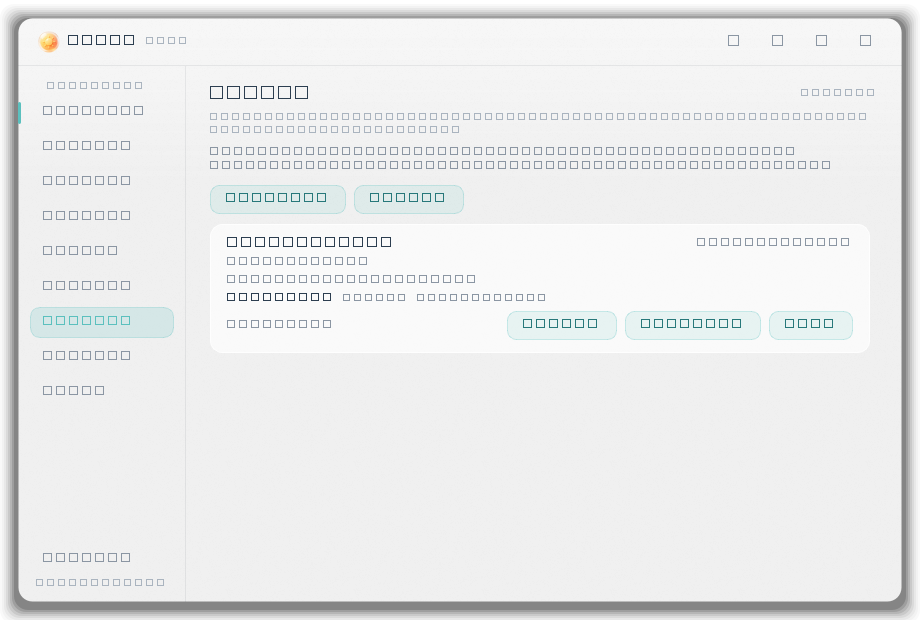
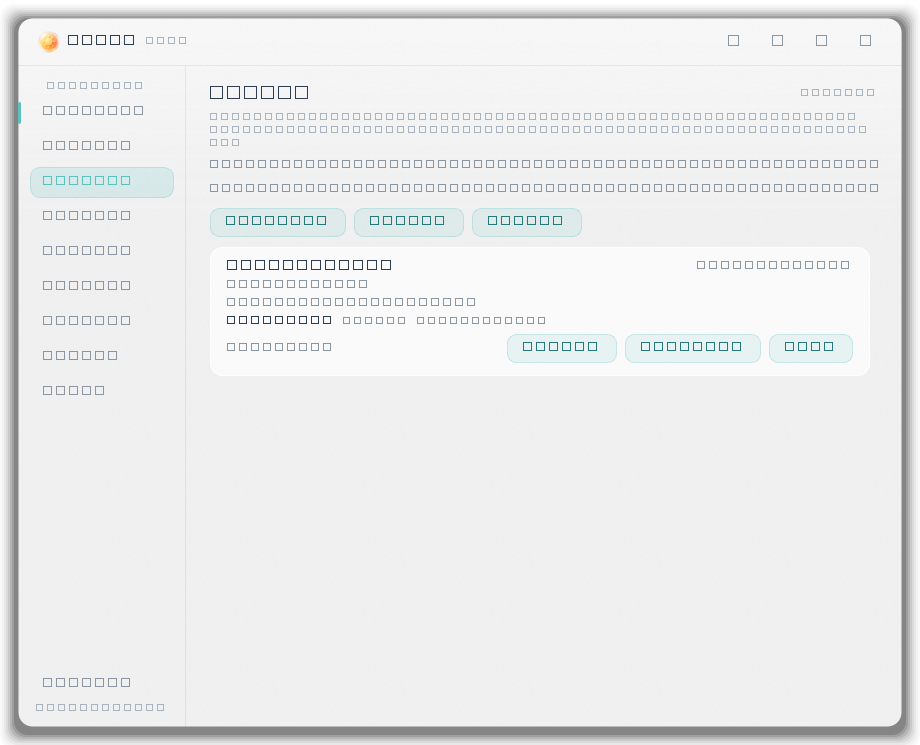
docs: 自动检出 docs 模块改动（3 文件）
由 tools/git_autopilot.py 自动提交。
质量校验：py_compile OK / pytest 890 passed, 3 skipped in 9.47s

变更文件：
  M  CHANGELOG.md
  M  docs/images/验证-插件中心.png
  ??  docs/插件选题推荐-2026-09-28.md

diff --git a/docs/插件选题推荐-2026-09-28.md b/docs/插件选题推荐-2026-09-28.md
@@ -1,0 +1,225 @@
+# 插件选题推荐（2026-09-28）
+
+面向 FloatPulse「办公便捷功能集合体」定位，基于全网同类工具插件生态调研，筛出**值得自己开发**的插件。
+现有插件：`weekly-report`（周报）、`ai-assistant`（AI 助手，含联网/页面/动作协议）。
+
+---
+
+## 一、调研来源与可信度
+
+| 来源 | 关键事实 | 可信度 |
+|---|---|---|
+| Raycast 官方商店 / 2026 评测 | Snippets（常用语）是**内置核心能力**而非商店扩展；Clipboard History 被作者列为"不用就在损失生产力" | 一手 |
+| Raycast 扩展榜（第三方博客） | 高频上榜：GitHub / Linear / Notion / Color Picker / Kill Process / System Monitor / Snippets | 二手，趋势可参考 |
+| uTools 插件专题「必备」「高效办公」 | 必备榜首三位：本地搜索、剪贴板、OCR；紧跟 备忘快贴、聚合翻译、PDF 处理、ToDo 待办 | 一手（官网专题页） |
+| uTools「超级待办」插件描述 | 卖点明确写"AI 帮你写周报、写日报、写总结" | 一手 |
+| Obsidian 插件下载量（obsidianstats.com） | Top10：Excalidraw / Templater / Dataview / Tasks / Advanced Tables / Calendar / Git / Kanban | 一手 |
+| Flow Launcher 插件推荐 | 常装六件：Clipboard+、Window Walker、Steam Search、Colors、Emoji+、Spotify | 二手 |
+| 待办工具横评（多篇自媒体） | "职场人日均 12–25 项碎片任务，68% 因遗漏/混乱降低效率"；重复任务（周会、月报）是刚需 | **【待核实】**——各家都引"2026 行业调研"但无原始出处，只作方向参考 |
+
+**从调研里读出的三条规律：**
+
+1. **高频 ≠ 高价值**：取色、翻译、OCR、emoji、进程管理在各家榜单都很热，但它们是**通用工具**，谁做都行，且与 FloatPulse 主线（记完之后）无关。
+2. **真正稀缺的是「沉淀层」**：Snippets、剪贴板历史、待办/周期任务、日报周报 —— 这些才是"收集完之后怎么用"的位置，正是 FloatPulse 的定位空档。
+3. **重复/周期任务是明确缺口**：多篇待办横评都把"每周例会、每月总结设一次重复规则"当核心卖点，而 FloatPulse 的任务模块目前**没有重复能力**。
+
+---
+
+## 二、选型判据（四条，缺一不推荐）
+
+1. **贴合四大场景**：随手记 / 临时存 / 找东西 / 盯截止日 / 对照参考。
+2. **吃宿主独占数据**：碎片池、双轴分类、任务、笔记、番茄钟快照 —— 外部工具拿不到，才轮到 FloatPulse 做。
+3. **不是别人的优势区**：翻译 / OCR / 取色 / 文件搜索 / 窗口管理 / 进程管理一律排除。
+4. **成本可控**：PyQt6 + stdlib，不引第三方库，单插件 0.5–2 天。
+
+---
+
+## 三、推荐清单
+
+| 优先级 | 插件 id | 名称 | 解决什么 | 用到能力 | 工作量 |
+|---|---|---|---|---|---|
+| **P0** | `snippets` | 常用语速插 | 重复打字（客套话/模板/地址/签名） | 无（可选 write） | ~1 天 |
+| **P0** | `inbox-triage` | 碎片收件箱清理 | 碎片只进不出，越存越不想看 | `manage` + `write` | ~1.5–2 天 |
+| **P1** | `recurring-tasks` | 周期任务 | 周会/月报每周手动重建 | `write` | ~1 天 |
+| **P1** | `deadline-radar` | 截止日盯盘 | 任务沉在列表里，忘了就忘了 | 只读（顺延需 `manage`） | ~1 天 |
+| **P1** | `daily-standup` | 日报/站会生成 | 每天回想"昨天干了啥" | `write` | ~0.5 天（复用周报） |
+| P2 | `focus-review` | 专注复盘 | 番茄钟数据躺着没用 | 只读 + `data_dir` | ~1 天 |
+
+---
+
+## 四、逐个说明
+
+### P0-1 `snippets` 常用语速插
+
+**做什么**：热键（`Ctrl+Alt+;`）唤出搜索框，模糊匹配片段名 → 回车 → 内容写进剪贴板并**自动粘贴到当前光标位置**。附带"把当前选中文本存为新片段"。
+
+**为什么是它**：Raycast 把 Snippets 做成内置核心功能、uTools 有「备忘快贴」「超级文本片段」两个同类插件且都进必备榜 —— 这是被三个生态同时验证过的最高频需求。FloatPulse 的优势是球常驻桌面，唤起路径比开 uTools 更短。
+
+**实现要点**：
+- 片段库存 `ctx.data_dir/snippets.json`，写文件走**临时文件 + `os.replace`** 原子落盘（与宿主数据层同风格）。
+- 热键路径 `run()` 跑在**原生事件过滤器**里 → 开对话框必须 `QTimer.singleShot(0, ...)`，否则重入崩。
+- 弹窗继承 `src/plugin_ui.PluginDialog`（裸 QDialog 会退化成系统外观）。
+- 粘贴：`ctypes`（stdlib，白名单内）调 `user32` 发 `Ctrl+V`。**坑**：Qt 窗口弹出会抢焦点 → 先在 `run()` 里 `GetForegroundWindow()` 记下原窗口句柄，写剪贴板后 `SetForegroundWindow` 回来再发按键。
+- 可选声明 `write`：让用户把碎片池里的常用内容一键"升级"成片段，形成 碎片→片段 的反向闭环。
+
+**验收**：在记事本/浏览器输入框分别测试，粘贴成功且不丢焦点；片段库损坏时降级为空列表不崩。
+
+---
+
+### P0-2 `inbox-triage` 碎片收件箱清理
+
+**做什么**：定时扫描碎片池，把**超过 N 天未处理**的碎片挑出来，悬浮球角标提示；点开是页面插件，逐条给三个按钮：转任务 / 转笔记 / 删除，支持批量"全部忽略"。
+
+**为什么是它**：碎片池是 FloatPulse 自己造出来的数据结构，**堆积问题只能自己解** —— 外部工具碰不到这些数据。这是最"独占"的一个插件，也是唯一能把闭环从"收集"补到"消化"的那一环。
+
+**实现要点**：
+- 需要 `capabilities: ["write", "manage"]`（转任务/笔记用 `add_*`，删除与标记用 `delete_*` / `update_fragment`）。
+- `delete_*` 返回**撤销令牌** → 面板上必须给「↩ 撤销」按钮，调 `undo_delete(token)`（一令牌一用，编号可能变新，是预期行为）。
+- 页面插件：`manifest "page"` + `create_page(ctx)` → `register_plugin_page()`（索引 10+，不占 `last_page_index`）。
+- 老化判定只看碎片 `created_at` + 本地"已处理"标记（`data_dir/handled.json`），**不改动宿主碎片结构**。
+- 定时器在 `on_disable` 里停掉（钩子异常由 loader 隔离，但仍要自己收尾）。
+
+**验收**：碎片为空不报错；删后撤销能回来；禁用插件后定时器不再触发。
+
+---
+
+### P1-1 `recurring-tasks` 周期任务
+
+**做什么**：管理重复规则（每天 / 每 N 天 / 每周几 / 每月几号），程序启动与每日跨零点时检查，自动 `add_task` 生成到期实例。
+
+**为什么是它**：多篇待办横评把"每周例会、每月总结设一次重复规则"列为核心卖点，FloatPulse 任务模块**没有**这个能力 —— 是明确的功能缺口，不是锦上添花。
+
+**实现要点**：
+- 只需 `write`（`ctx.write.add_task(title, note, deadline)`）。
+- 规则存 `data_dir/rules.json`；**幂等必须做**：记录"上次生成日期"，避免重复启动生成一堆重复任务。
+- 页面插件管规则（增删改），不要用弹窗硬塞。
+- 与 `deadline-radar` 天然互补，可共用一套日期工具。
+
+---
+
+### P1-2 `deadline-radar` 截止日盯盘
+
+**做什么**：把"逾期 / 今天 / 本周"的任务浓缩成一张常驻小卡（页面插件 + 悬浮球角标），只显示最近 3 条；提供「顺延一天」按钮。
+
+**为什么是它**：直接对应定位里的「盯截止日」。敬业签/滴答清单的价值核心就是"可见即可管" —— FloatPulse 已有任务分组，缺的是**主动冒出来提醒**这一步。
+
+**实现要点**：
+- 只读为主；"顺延一天"需 `manage` 的 `update_task(task_id, deadline=...)`（**其他字段传 `None` = 不动**）。
+- 角标数量用宿主 `refresh_badge` 通道，别自己画悬浮控件。
+- 分组口径复用 `overdue→today→week→later→none→done`，**不要另写一套**。
+
+---
+
+### P1-3 `daily-standup` 日报/站会生成
+
+**做什么**：按"今天"范围汇总 —— 昨日完成 / 今日计划 / 阻塞项，一键存为笔记。
+
+**为什么是它**：uTools「超级待办」明写"AI 帮你写周报、写日报"；而 FloatPulse 已有 `weekly-report`，**改个时间窗口就能复用九成代码**，性价比最高。
+
+**实现要点**：复制 `plugins/weekly-report/` 骨架 → 时间范围改今日 → 输出模板换三段式 → `ctx.write.add_note()`。约半天。
+
+---
+
+### P2 `focus-review` 专注复盘
+
+读 `ctx.data.pomodoro()` 与任务 `focus_sessions`，按天累计进 `data_dir`，出周/月专注时长与小热力图。价值依赖用户是否真在用番茄钟，故排 P2。
+
+---
+
+## 五、明确不做（附理由）
+
+| 不做什么 | 理由 |
+|---|---|
+| 翻译 / OCR / 取色 / 计算 / 单位换算 | uTools、Raycast、Flow Launcher 都有成熟件且更好；FloatPulse 无浏览器内核与 OCR 引擎，硬做是劣势区 |
+| 全局文件搜索、窗口切换、进程管理 | 已定调交给 Everything / Flow Launcher；与"记完之后"无关 |
+| 完整剪贴板历史 | 宿主已有剪贴板收集，插件再做是重复建设（片段库是它的上层，已在推荐里） |
+| 云同步 / 多端 | 定位是本机单用户，无服务端 |
+| 浏览器书签导入 | 已有「网址导航」面板覆盖 |
+
+## 六、两个前置决策（需要拍板）
+
+1. **网络桥目前只有 POST**（`ctx.http_post_json_async`）。若将来要做"稍后读 / 链接暂存箱"这类需要 **GET 抓网页标题**的插件，必须先给 `src/plugin_net.py` 加 GET 通道 —— 这是宿主改动，不是插件能绕过的。
+2. **模拟粘贴要用 `ctypes` 发按键**。依赖白名单允许 `ctypes`（stdlib），但属于"操作其他窗口"的越界行为，需要在插件说明里写清楚，并在 manifest 里声明用途。
+
+---
+
+## 七、建议推进顺序
+
+`daily-standup`（半天，验证页面+write 链路）→ `snippets`（一天，最高频）→ `recurring-tasks`（一天，补缺口）→ `inbox-triage`（两天，独占价值最大但最重）。
+
+---
+
+# v2 修订（2026-09-28 晚）：三个候选选题的评估
+
+> 用户反馈第一版"没技术含量 / 和宿主重复 / 场景错配"三条成立，并自拟三个选题。以下是对这三个选题的评估与增强建议。第一版的「调研来源」「明确不做」仍然有效。
+
+## 判据修订（在原四条基础上加两条）
+
+5. **交互范式要新**：宿主已有的是「打开页面 → 操作 → 保存」；插件应提供宿主没有的范式（选中即转换、到点主动触发、热键直达）。
+6. **有工程深度**：不能是纯 CRUD + 剪贴板，至少要占一样——异步编排 / 解析算法 / 状态机 / 索引 / 冲突处理。
+
+## 候选 1：`ai-text-workshop` AI 文本工坊 —— 值得做，但有两个前置
+
+**形态**：热键呼出对话框，自动带剪贴板文本，一键执行润色/翻译/总结/改语气/提取待办；结果可复制、或 `write` 回写碎片/笔记。
+
+**需求侧**：Raycast AI Commands 确实存在（Pro 的自定义 AI 命令）；PowerToys Advanced Paste 也确实是 PowerToys 的热门功能且已加 AI 增强。但"2025 年公认最热门功能"这个说法**未找到权威出处，标【待核实】**，对外别这么写。
+
+**与 AI 助手是否重复**：**不重复，是范式互补** —— AI 助手是"对话页"（长流程、有上下文、能操控数据），这个是"选中即转换"（单次、无状态、结果即走）。两者可以共存。
+
+**必须解决的两个前置**：
+
+| 问题 | 说明 | 建议解法 |
+|---|---|---|
+| **后端配置双份** | 后端（云端 base_url/key/model、本地 llama-server 路径/端口/gguf）目前是 `ai-assistant` 私有的。新插件再搞一套 → 用户配两遍、两份 key 不同步 | **不动设置页**（改设置页=用户可见变更+要同步 `verify_settings_groups.py`+进 CHANGELOG）。改为约定共享文件 `float_data/ai_backend.json`，`ai-assistant` 写、其他插件只读并做降级（文件不存在 = 未配置） |
+| **本地冷启动延迟** | 本地模式要 QProcess 拉 llama-server，模型加载数秒~十几秒。而"剪贴板一键动作"的价值就是秒级响应，冷启动会毁掉体验 | 分两类动作：①**确定性转换**（JSON 格式化、Markdown↔纯文本、去空行、全半角、大小写）——纯 stdlib、零延迟、不依赖模型；②**AI 转换**——走模型，首次调用给"模型加载中"提示，并记住"本地服务已就绪"状态 |
+
+**增强建议**：把 PowerToys Advanced Paste 里最好用的那一半抄过来 —— **确定性格式转换不依赖模型**，即时响应。这样插件在没配 key、没开本地服务时**仍然有用**（否则它就和 AI 助手一样"不配置就废"）。
+
+## 候选 2：`recurring-tasks` 周期任务 —— 同意，成本最低收益最高，但实现姿势要改
+
+QTimer + `write.add_task` 成本确实极低。但**不能靠"设一个 24 小时定时器"**，有三个坑：
+
+1. **休眠不补偿**：Qt 定时器在系统睡眠/休眠期间不累加，睡一晚回来定时器不会补触发。
+2. **程序没启动就漏**：宿主没运行时定时器根本不存在（依赖开机自启）。
+3. **重复生成**：宿主重复启动、或规则跨天边界，容易一天生成两条。
+
+**正确姿势 = 轮询 + 补跑 + 幂等**：
+- `QTimer` 每 5 分钟 tick 一次 → 比对「当前日期时间」与规则（每天 / 每周几 HH:MM / 每月几号），而不是设一次性定时。
+- 每条规则记 `last_fired`（日期），启动时**补跑**错过的（补跑只补最近一次，不无限回溯）。
+- 定时器必须在 `on_disable` 里停掉（钩子异常 loader 会隔离，但自己要收尾）。
+
+**"每周五 15:00 自动生成周报草稿并弹 toast"** 这条最有粘性，但要拆清楚：
+- 若周报草稿 = **纯模板汇总**（本周新增碎片数 / 完成任务数 / 待办），纯本地可做，零依赖，稳定。
+- 若 = **AI 润色后的叙述**，就依赖后端，且本地冷启动同样有延迟。
+- 建议：**先做纯模板版**（主动弹 toast + 一键存笔记），AI 润色作为可选增强放在后面。
+
+## 候选 3：`snippets` 快捷短语库 —— 实用，但要加一层才撑得住
+
+这条我第一版推过、后来自己砍了，理由是"技术含量最低、和宿主'临时存'重复"。你的版本有个我没考虑到的点：**只复制到剪贴板，不模拟粘贴** —— 那就不需要 `ctypes` 操作其他窗口，越界风险归零，我上一版在这一条上说重了，纠正。
+
+但要撑得住，建议加 **动态变量**，让它从"静态片段"变成"微型模板引擎"：
+
+| 变量 | 行为 | 技术含量 |
+|---|---|---|
+| `{{date}}` `{{time}}` `{{weekday}}` | 插入当前日期时间 | 低 |
+| `{{clipboard}}` | 插入剪贴板当前内容 | 低 |
+| `{{sel}}` | 插入唤出前选中的文本 | 中（要在唤起时抓取） |
+| `{{ask:提示}}` | 弹出输入框让用户填 | 中（动态构造表单） |
+| `{{py:表达式}}` | 简单表达式求值 | 高（**必须白名单求值，禁 eval 裸跑**） |
+
+再加一条差异化：**从碎片池"升级"成短语**（碎片面板选中 → 存为片段）。这是 Raycast / Espanso / uTools 都没有的，因为只有 FloatPulse 有碎片池。
+
+`{{py:}}` 要慎重：安全上做成"仅允许一组内置函数 + 字面量"的最小求值器，或直接砍掉。
+
+## 修订后的推进顺序
+
+| 序 | 插件 | 工作量 | 理由 |
+|---|---|---|---|
+| 1 | `recurring-tasks` + 周报主动提醒 | ~1 天 | 成本最低、粘性最高、补"主动性"缺口 |
+| 2 | `ai-text-workshop` | ~2 天 | 最值钱（AI 编排 + 双后端 + 回写数据链路），但需先定 `ai_backend.json` 共享方案 |
+| 3 | `snippets` + 动态变量 | ~1 天 | 高频但含量最低，放最后；靠动态变量和"碎片升级"拉出差异 |
+
+## 待拍板
+
+1. **后端配置要不要提到宿主层？** 方案 A：`float_data/ai_backend.json` 约定共享（不动设置页，成本低，推荐）；方案 B：进设置页正式配置（要动三件套 + `verify_settings_groups.py` + CHANGELOG，成本高但正规）。
+2. **`{{py:}}` 动态求值做不做？** 做就有安全风险需白名单，不做就砍掉。

diff --git a/CHANGELOG.md b/CHANGELOG.md
@@ -8,6 +8,7 @@
 - **示例插件「周期任务」（`recurring-tasks`，页面插件 + 定时规则引擎）**：补上宿主缺的那一件事——**只给规则，到点自动生成任务**。与既有的 `task_reminder_enabled` 划清界限：那个是「**已知具体日期**的任务 → 启动时 + 每日 9:00 托盘气泡提醒」，本插件是「**只给规则**（每天 / 每周几 / 每月几号 / 每 N 天）→ 自动把任务实例生出来落进任务页」，生成的实例照旧享受宿主的到期提醒，两者互补。四种规则类型：每天 HH:MM、每周（可多选星期几）、每月（可多选号数，`>当月天数` 的号数**自动顺延到月末**——否则「31 号」规则在 2 月永远不触发）、每 N 天（自锚点日起算）。**调度正确性四条都是踩过的坑而不是设想**：①**轮询而非一次性定时器**——Qt 定时器在系统休眠期间不累加，睡一晚回来不会补触发，跨天还会算错，故用 60s tick 反复比对「当前时间 vs 规则」；②**错过的只补最近一次**——程序没开（或休眠）期间错过的触发点，启动后只补**最近**那一次（连关三天不该冒出三条任务）；③**同一天不重复生成**——每条规则的 `last_fired`（触发日，落盘）是幂等锚点，重复启动、一天内多次 tick、「立即检查」按多次都只产生一条；④**不为「创建之前」的日子补跑**——`created_at` 是补跑的水位：否则上午 10:00 新建一条「每天 08:00」的规则会立刻冒出一条**昨天**的任务（那条规则当时还不存在，谈不上「错过」），现在它从保存那一刻起算、第一次生成落在次日 08:00，而 08:00 建的「每天 09:00」今天 09:00 照常触发。**失败不假装成功**：未授权 / 写失败时 `last_fired` 不推进，但当天也不再重试（失败日记进内存标记），原因写进日志并 toast 说清，不静默吞掉也不刷屏。生成任务的截止日可选（不设 / 当天 / 次日 / 3 天后 / 7 天后），只影响生成的实例、不影响触发时刻。规则落在 `float_data/plugins/recurring-tasks/rules.json`（临时文件 + `os.replace` 原子写，坏文件只降级不删档，一条坏规则拖不垮其余）。入口：主窗口导航页「🔁 周期任务」（`Ctrl+Alt+R` 或悬浮球右键菜单），页面是规则卡片列表（规则摘要 / 下次触发 / 截止日 / 上次生成 / 备注）+ 启停 / 编辑 / 删除 / ➕ 新建 / ✅ 立即检查；编辑对话框继承 `PluginDialog`，只声明 `write` 能力（只增不改删，不要 `manage`）；随包附带 `使用说明.md`（插件中心卡片可点开）。两处工程细节值得记：**插件级单例调度器**——插件中心「重新扫描」会重复触发 `on_enable`，若每次新建 `QTimer` 就会在一台机器上并存多个调度器；**数据目录不可用时 `load()` 保留内存规则**——否则每次切入页面（`showEvent` 会重读）都会把用户刚建的规则清空。页面上如实写明「下次触发是推算值，程序没运行时不会自动生成，重启后补跑最近一次」，不误导用户以为关着程序也会长任务。回归钉子 `tests/test_recurring_tasks.py`（**125** 项：规则命中 / 月末顺延 / 幂等 / 补跑 / 创建水位 / 失败隔离 / 存储降级 / manifest 契约 / 单例幂等）；离屏端到端 `tools/verify_recurring_tasks.py`（**46/46**：真加载器 + 真 `TaskManager`——启动即补跑 0→2 条且各补一次、月度只补 9/15 不补 9/1、已生成过的不提前触发、新建当天不补跑、停用规则零生成、只声明 write 时 `manage` 被门禁拒绝、页面注入与热键、对话框四类参数区切换与校验，附 light/dark 双主题真截图）。已打包 `plugin_store/recurring-tasks.fpplug`（18.5KB）
 - **插件打包器 `tools/pack_plugin.py`**：插件分发的最后一环——此前把插件打成 `.fpplug` 靠手工压缩，格式靠人记（要套一层 `<插件id>/`、不能带 `__pycache__`），而依赖写错、热键写坏、entry 指向不存在的文件这类问题要等用户装进程序看到「加载失败」才发现。现在一条命令搞定：`python tools/pack_plugin.py plugins/<插件> [--force] [--check-only] [-o 目录]`，默认输出到 `plugin_store/`。**打包期就挡住装载期的问题**：manifest 可读/UTF-8/合法（中文存成 GBK 会直接提示）、结构校验（复用 `validate_manifest`，规则不重写）、`requires` 白名单（列出违规项并给替代路径）、action id 包内唯一、热键格式、entry 文件真实存在；打包内容自动排除 `__pycache__` / `*.pyc` / `*.log` / 隐藏文件 / 旧包；**打完立刻自校验**（重开 zip 确认 manifest 可解析 + entry 在包内，不过就删包报错，不留坏包）；同名包默认拒绝覆盖（需 `--force`，拒绝时原包字节不变）；退出码 0/1/2 可进 CI。纯标准库 + 契约层，**无 GUI 环境可跑**。回归钉子 `tests/test_pack_plugin.py`（20 项，含端到端：真 `PluginLoader` 扫包 → 安装 → 加载出插件 → 商店状态翻「已安装」）。实测打出的包与 `plugin_store/ai-assistant.fpplug` 结构一致、大小完全相同（35533 字节）
 - **AI 助手操作知识库（v1.6.0，读写全套 + 位置型数据护栏）**：AI 助手的操作范围从「任务 / 碎片 / 笔记」扩展到**知识库**（`float_data/知识库.docx`）——「往知识库里追加一条：客户投诉处理流程见附件 A」「把知识库第 4 段改写得更简短」「讲报价的那段过时了，删掉」都能直接说；并新增「查知识库」快捷指令（读全部段落带编号，先概括整体，再指出最值得展开或最可能过期的编号）。**知识库与其它三类数据的本质差别是「用编号（位置）寻址」而不是自增 id**，所以这套能力多做了四道针对性护栏：①**改删必须带内容指纹 `expect_hash`**——编号是位置不是身份（删掉第 3 段，原第 5 段就变成第 4 段），且 `.docx` 允许用户随时用 Word/WPS 外部编辑，故 `update_knowledge(num, content, expect_hash)` / `delete_knowledge(num, expect_hash)` 的指纹由解析器从快照**原样透传**（模型既不需要也没法自己编，快照里那段没 `hash` 就整条丢弃），宿主执行前重新比对当前内容、**对不上直接拒绝**——宁可失败也不改错段落；传空 / `None` / 非字符串一律拒（`_check_hash` 比文本参数严：**没有「不校验」这个选项**）；②**外部改动安全闸**——`DocxManager.save()` 是**整篇回写**，用户在 Word 里改过而内存模型未重载时落盘会覆盖用户的手改内容，故所有知识库写入前先过 `check_external_modification()`，命中即拒绝并记 warning，引导用户到知识库页点「🔄 重新加载」；③**同批删除必须按编号降序执行**——位置型数据独有的坑（先删 4 号再删 6 号，删完 4 号后原 6 号已经是 5 号），由纯函数 `_order_actions()` 负责重排，只动执行顺序、不改动作内容，新增/修改类的相对顺序保持；④**撤销放回原位置**——任务 / 碎片 / 笔记撤销走「重新插入」（编号会变新），知识库段落用 `insert_paragraph_before` **回到原编号**（对位置型数据，位置本身就是信息），越界才退回追加。同时**顺手修正一处既有隐患**：`DocxManager.load()` 此前把**原始 docx 下标**写进 `ParagraphInfo.index`，而 delete/insert 与面板所有寻址 API 用的都是**过滤后位置**（空行与短于 4 字的段落会被跳过）——文档一旦含空行 / 短段，「编号 N」就会改错段落；现统一为过滤后口径并加回归钉子（现有 `知识库.docx` 344 段、无跳过，故此前未爆发）。契约侧新增 `PluginData.SOURCE_KNOWLEDGE` + `ctx.data.knowledge()`（返回 `num` / `text` / `preview` / `hash`——**不走 `to_dict()`**，那里面没有文本，故宿主显式构造）、`ctx.write.add_knowledge()`（返回编号，从 1 起）、`ctx.manage.update_knowledge / delete_knowledge`。插件使用说明新增「让 AI 操作知识库」章节。回归钉子：`tests/test_plugin_knowledge.py`（新增 **42** 项：权限门禁 / 指纹契约 / 索引口径 / 原位插入 / 异常隔离）+ `tests/test_ai_assistant_actions.py` 扩至 **60** 项（动作分级、`hash` 绑定、`_order_actions` 降序）+ 离屏端到端 `tools/verify_ai_assistant.py` **133/133**（C46–C52 为知识库全链路，含 light/dark 双主题真截图人工核对）
+- **插件商店独立弹窗**：「🏪 插件商店」从插件中心页里的常驻区块拆为**独立窗口**（GlassDialog，与主窗口同主题，light/dark 自动跟随）——此前商店卡片与已安装卡片同页渲染，页面被拉得过长、同一插件在「商店区·已安装」与「已装列表」各出现一次，视觉拥挤且重复。现在页面本体只看「已装了什么」，商店窗口只看「还能装什么」：**已安装的包不再重复列出**（压缩成一行「✓ 另有 N 个插件包已安装——卸载后可回到此处重装」），列表只留未安装包与坏包（坏包给出出错原因）；安装成功后弹窗卡片即时刷新、右键菜单同步重建；底部保留「打开商店目录 / 刷新」。空态两档文案：目录里没包引导放入后刷新，全部装过则提示「卸载后可重装」。回归钉子：页面不再有内嵌商店区（`pluginStoreBox`）、弹窗三态卡片、安装后即时刷新（`TestStoreDialog`，5 项）
 - **插件改删能力 `capabilities: ["manage"]` + `ctx.manage`（撤销令牌 + 审计）**：`write` 只能新增，插件想「把这条任务标记完成」「删掉那条重复碎片」此前完全无路可走。现新增高一一档的 `manage` 能力（**蕴含 `write`**，改删必然要先能读能写）：`ctx.manage` 提供 `update_task / set_task_done / update_fragment / update_note` 四个改方法（返回 `bool`）与 `delete_task / delete_fragment / delete_note` 三个删方法，以及 `undo_delete(token)`。关键设计：①**删除可撤销**——`delete_*` 不返回 bool 而返回**撤销令牌**（正整数，`>0` 成功），宿主在删之前抓整条快照进撤销栈（只保留最近 50 次），用户后悔时凭令牌恢复，令牌一次性、走「重新插入」路径（编号可能变新，标题/正文/完成态/专注次数原样还原）；②**部分更新语义**——`update_*` 的文本参数传 `None` = 该字段不动，弱模型不必为「只改标题」回填正文，也不会把没提到的字段清空；③**参数护栏**——id/令牌必须是真整数（`bool` 是 `int` 子类，一并挡掉），文本参数给了就必须是 `str`；④**未声明即拒绝**——改删方法返回 `False`/`0` 并记 warning，不动数据不抛异常；⑤**全程审计**——每次改删记 `[插件管理] <插件id> <方法><参数> -> <结果>`。改删成功后宿主自动刷新对应面板与悬浮球徽标；插件中心卡片新增「🛠 改删数据」标记。`ctx.write` 与 `ctx.manage` 是同一个门面对象（门禁在方法级按能力名判定），`for_plugin` 派生时逐实例判定权限。回归钉子 `tests/test_plugin_manage.py`（14 项：权限门禁 / 「只声明 write 不等于拿到 manage」/ 参数护栏 / 返回语义 / 异常隔离 / 门面同一性）
 - **AI 助手「自然语言操作数据」+ 分级确认 + 可撤销删除（v1.5.0）**：AI 助手现在能按你的指令改应用内数据——「把 3 号任务标记完成」「新建任务：周五前交报表」「把那条重复碎片删掉」「把周会记录标题改成周会纪要」都能直接说。**安全靠三层而不是靠模型自觉**：①插件侧不做原生 function calling（本地 Qwen3-4B 量化版对 JSON schema 遵循度不稳，云端 DeepSeek 支持好），改用「回复末尾输出 ```actions 块」的提示词约定，两端通吃；②**分级确认**——新增类直接执行并给结果卡，修改/完成/删除类**先弹「⚠ 待确认」卡**列出将执行的操作（含目标记录标题），用户点「执行」才落库、点「取消」数据零改动；③**删除可撤销**——删除成功后结果卡带「↩ 撤销删除」。解析器的容错契约很硬：坏 JSON / 结构不对 → **整块不执行**并如实提示「以下动作未被执行」；单条不合格（未知 op / id 编造 / 参数类型错）→ 只丢那一条；动作数超 10 条截断；**id 必须是快照里真实存在的编号**（挡模型编造）。**任何情况下都不猜**——少做比做错好。未声明 `manage` 能力时不下发动作协议，模型若硬输出动作会被如实拒绝（不渲染注定失败的确认卡）
 - **插件受限写能力 `capabilities: ["write"]` + `ctx.write`**：插件的最后一道能力天花板——此前 `ctx.data` 是只读快照，插件能读任务/碎片/笔记却写不回去，「把 AI 整理结果存成笔记」这类需求只能让用户自己复制粘贴。现沿用已验证的「声明式权限 + 宿主桥」模型（与网络桥同构）：manifest 声明 `"capabilities": ["write"]` 后可用 `ctx.write.add_fragment(content, source="")` / `add_task(title, note="", deadline="")` / `add_note(title, content="")`，返回新记录的 id（`0` = 失败）。三重约束：①**只增不改删**——门面上刻意没有 update/delete，改删的破坏性远大于新增；②**未声明即拒绝**——调用返回 0 并记 warning，不写数据不抛异常；③**内容护栏**——空串/纯空白/非字符串拒写、超 8000 字符截断后照写。碎片的 `source` 缺省自动补 `插件:<插件id>` 落库可追溯，写入成功后宿主自动刷新对应面板与悬浮球徽标。插件中心卡片新增「✍ 写入数据」标记（与「🌐 网络访问」并列），用户能看到插件会改数据。对比 `ctx.data` 缺失时返回空列表/None 的老语义，写入口统一用 `>0` 判成败，不必读日志
